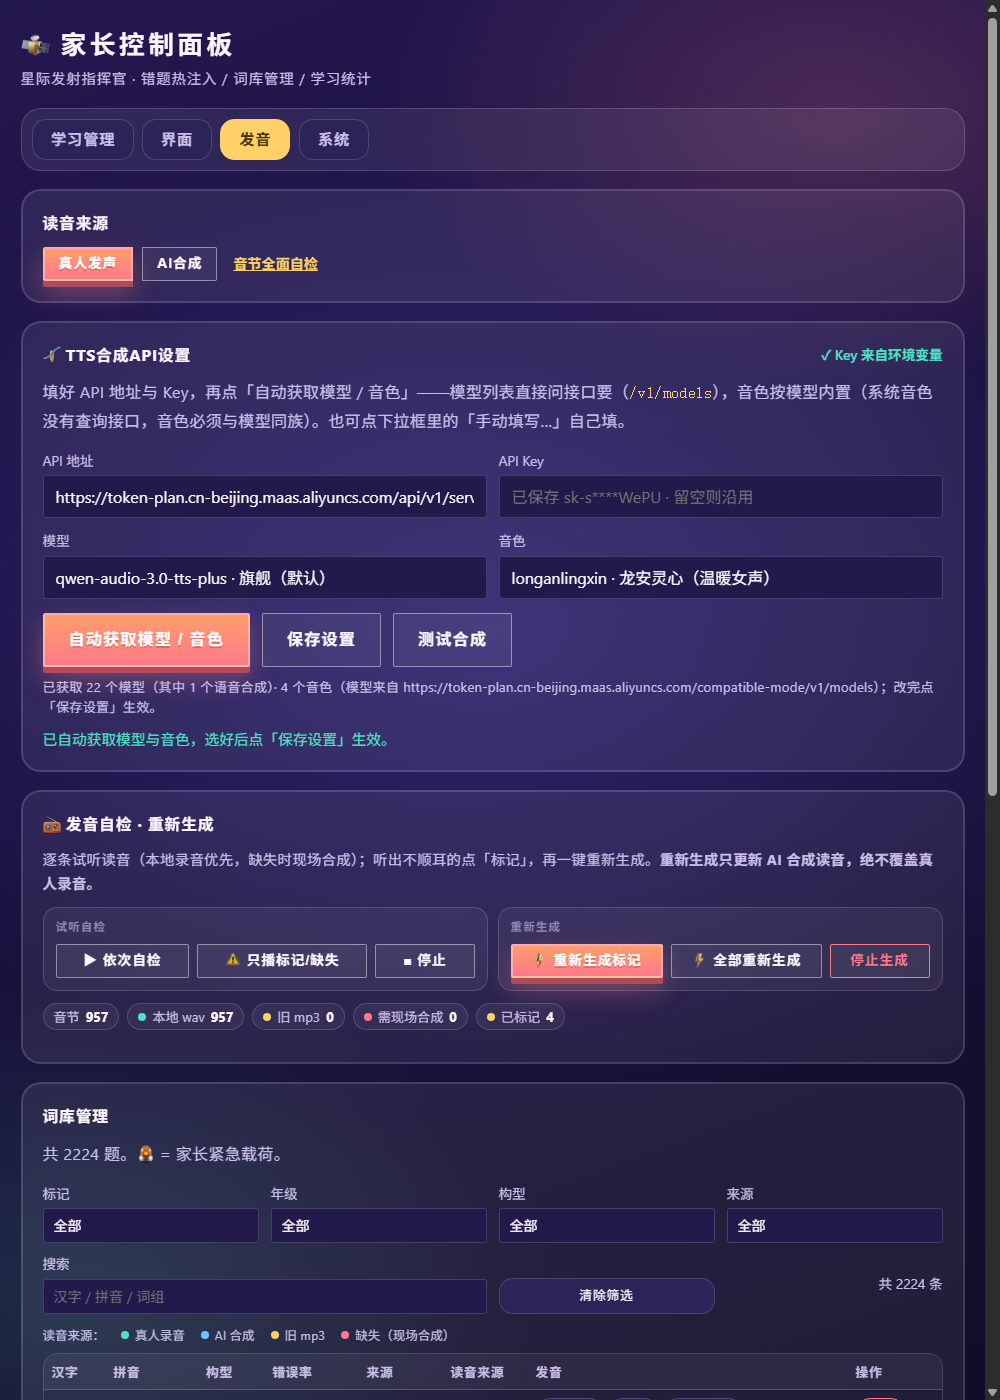
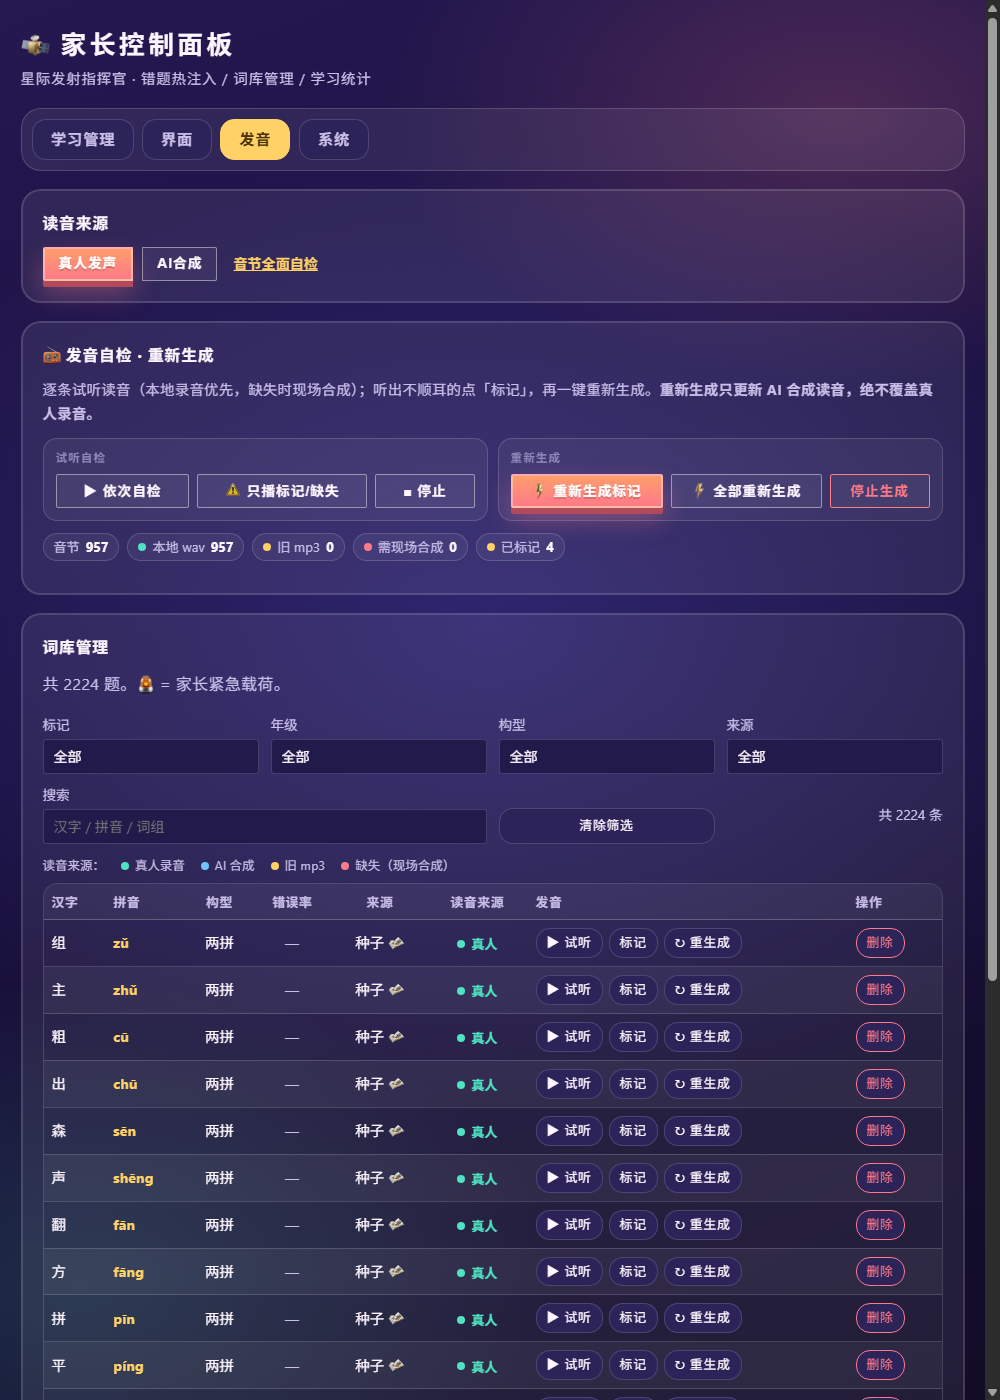
docs: README 开篇突出紧扣课文；公开截图隐藏 TTS API/模型配置面板
首句改为「紧扣统编版语文课文」；发音页截图移除 ttsConfigBox（API 地址/模型/音色/Key 一律不公开），画廊说明同步更新。

Changed region(s): [[0.031, 0.2457, 0.961, 1.0], [0.961, 0.5529, 1.0, 0.7064]]

diff --git a/README.md b/README.md
@@ -1,9 +1,9 @@
 # 星际发射指挥官 · StarPinyin Commander
 
-**一款把小学拼音练习变成「火箭发射」的网页游戏。** 孩子拼对一个字的拼音，火箭才能点火升空，飞到课本奖励的星球。
+**一款紧扣统编版语文课文的拼音发射网页游戏。** 练习跟着课本一课一课走：孩子拼对一个字的拼音，火箭才能点火升空，飞到课本奖励的星球。
 
 > 打开就能玩，不用注册、不用联网、不装 App；iPad、电脑、手机都行。
-> 现在能玩的版本：拼音（声母 + 韵母 + 声调）拼读训练，课文跟着教材走。
+> 现在能玩的版本：拼音（声母 + 韵母 + 声调）拼读训练，课文同步一~三年级。
 
 ---
 
@@ -58,7 +58,7 @@
 | 错题热注入、薄弱拼音统计、介母装配与单元总字数 | 皮肤 / 图标风格 / 发射动画，保存即全设备同步 |
 | **发音** | **系统** |
 | ![发音](docs/screenshots/admin-voice.png) | ![系统](docs/screenshots/admin-reset.png) |
-| 真人 / AI 双读音源、TTS 设置、逐音节自检与词库管理 | 全库拼音规则自检、一键清除学习记录 |
+| 真人 / AI 双读音源、逐音节自检与重新生成、词库管理 | 全库拼音规则自检、一键清除学习记录 |
 
 > 除「界面」外各页签需**家长校验**（繁体数字）解锁，孩子误点不进去。
 > 截图为无头 Chrome 真机渲染，可用 `node scripts/gen-readme-shots.mjs` 重新生成（只读，不改存档）。
@@ -131,7 +131,7 @@
 - **练完一课 = 完成 1 课时**（这一课所有能出题的字都至少练过一次）。
 - **每完成 2 课时升 1 档，解锁 1 个星际目的地**：低空轨道 → 高空轨道 → 远地轨道 → 月球 → 金星 → 火星 → 水星 →
   木星 → 土星 → 天王星 → 海王星 → 冥王星 → 奥尔特云 → 星际空间，共 **14 个目的地**。飞到哪颗星球，由学到哪一课决定。
-- **每发射 3 次解锁 1 枚真火箭**：土星五号、长征五号、猎鹰九号、星舰……共 **16 枚**（含 2 枚未来概念旗舰）。
+- **每完成 3 个单元解锁 1 枚真火箭**：土星五号、长征五号、猎鹰九号、星舰……共 **16 枚**（含 2 枚未来概念旗舰）。
   土星五号是初始座驾，开局就能用。
 - 想飞得更远？不用调难度、不用重来，**跟着课本一课一课把生字练全**就行。没有「难度滑块」和「选错就挫败」。
 
